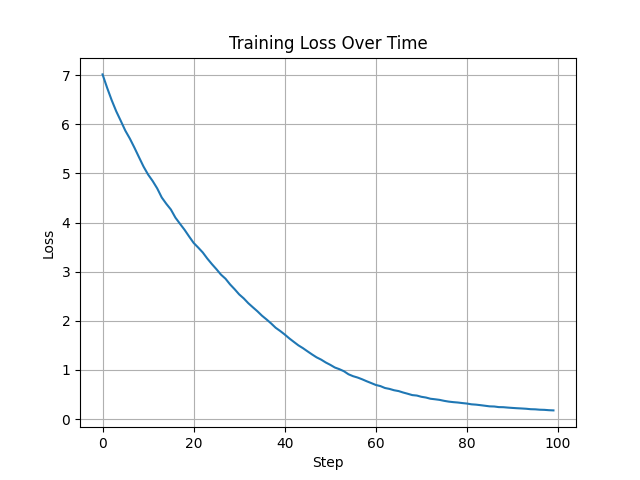
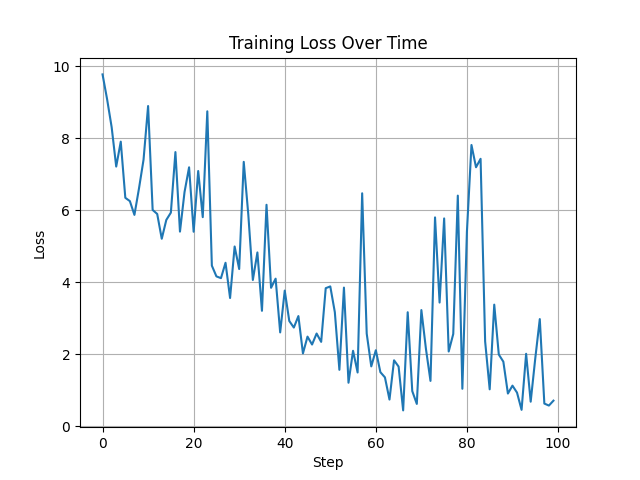
push

diff --git a/test_model.py b/test_model.py
@@ -225,72 +225,64 @@ if __name__ == "__main__":
 import torch
 import torch.optim as optim
 import matplotlib.pyplot as plt
-from datasets import load_dataset  # Import datasets library
-from transformers import T5Tokenizer  # Optional: use tokenizer if you prefer a pre-trained one
+from datasets import load_dataset
+from transformers import T5Tokenizer
 from model.transformer import GPT, GPTConfig
 
-
-# Step 1: Load the WMT 2014 dataset
-# Step 1: Load the WMT 2014 dataset
+# Step 1: Load the WMT 2014 dataset (DE-EN)
 dataset = load_dataset("wmt14", "de-en")
-    # Only process the first 10 examples for testing purposes
-for example in dataset['train'][:10]:  # Limit to first 10 examples
-    print(example)
-    input_text = example["translation"]["en"]
-    target_text = example["translation"]["de"]
-train_data = dataset["train"]
+
+# Limit to first 100 examples for quick testing
+train_data = dataset["train"].select(range(100))
 valid_data = dataset["validation"]
 test_data = dataset["test"]
 
-# Optional: Load a tokenizer (you can adjust this for your model's needs)
+# Load tokenizer
 tokenizer = T5Tokenizer.from_pretrained("t5-small")
+tokenizer.pad_token = tokenizer.eos_token  # Set padding token if missing
 
-# Tokenization function (you can adjust this based on your model's needs)
+# Tokenization function
 def tokenize(text):
     return tokenizer.encode(text, truncation=True, padding="max_length", max_length=128)
 
 # Model configuration
 config = GPTConfig(
-    vocab_size=1000,
+    vocab_size=tokenizer.vocab_size,
     n_embd=64,
     n_head=4,
     n_layer=4
 )
-
 model = GPT(config)
 device = torch.device("cuda" if torch.cuda.is_available() else "cpu")
 model.to(device)
 
 # Optimizer
 optimizer = optim.Adam(model.parameters(), lr=1e-3)
-
 losses = []
 
 # Training loop
-for step in range(700):
+for step, example in enumerate(train_data):
+    if step >= 700:
+        break
+
+    input_text = example["translation"]["en"]
+    target_text = example["translation"]["de"]
+
+    input_tensor = torch.tensor([tokenize(input_text)]).to(device)
+    target_tensor = torch.tensor([tokenize(target_text)]).to(device)
+
     model.train()
     optimizer.zero_grad()
 
+    logits, loss = model(input_tensor, target_tensor)
 
-    for example in train_data:
-        input_text = example["en"]  # English side
-        target_text = example["de"]  # German side
+    loss.backward()
+    optimizer.step()
 
-        # Tokenize the sentences
-        input_tensor = torch.tensor([tokenize(input_text)]).to(device)
-        target_tensor = torch.tensor([tokenize(target_text)]).to(device)
+    losses.append(loss.item())
 
-        # Forward pass
-        logits, loss = model(input_tensor, target_tensor)
-        
-        # Backward pass and optimization
-        loss.backward()
-        optimizer.step()
-
-        losses.append(loss.item())
-
-        if step % 10 == 0:
-            print(f"Step {step}, Loss: {loss.item():.4f}")
+    if step % 10 == 0:
+        print(f"Step {step}, Loss: {loss.item():.4f}")
 
 # Plot the loss curve
 plt.plot(losses)
@@ -300,14 +292,40 @@ plt.title("Training Loss Over Time")
 plt.grid(True)
 plt.savefig("loss_curve.png")
 
-# Evaluation
+# Evaluation with a sample from validation set
 model.eval()
 with torch.no_grad():
-    # Step 3: Sample prediction from the model
-    test_input = input_tensor[0].unsqueeze(0)  # Using the last processed input tensor for testing
-    logits, _ = model(test_input)
+    example = valid_data[0]
+    input_text = example["translation"]["en"]
+
+    input_tensor = torch.tensor([tokenize(input_text)]).to(device)
+    logits, _ = model(input_tensor)
     prediction = torch.argmax(logits, dim=-1)
 
     print("\nSample Prediction:")
-    print("Input:     ", test_input[0].tolist())
-    print("Predicted: ", prediction[0].tolist())
+    print("Input:     ", tokenizer.decode(input_tensor[0], skip_special_tokens=True))
+    print("Predicted: ", tokenizer.decode(prediction[0], skip_special_tokens=True))
+# Evaluation with autoregressive decoding
+model.eval()
+with torch.no_grad():
+    example = valid_data[0]
+    input_text = example["translation"]["en"]
+    input_ids = torch.tensor([tokenize(input_text)]).to(device)
+
+    max_new_tokens = 50
+    generated = input_ids.clone()
+
+    for _ in range(max_new_tokens):
+        logits, _ = model(generated)
+        next_token_logits = logits[:, -1, :]  # Get logits for last generated token
+        next_token = torch.argmax(next_token_logits, dim=-1).unsqueeze(0)  # Greedy decoding
+
+        generated = torch.cat((generated, next_token), dim=1)
+
+        # Stop if model generates a pad or end token
+        if next_token.item() in [tokenizer.pad_token_id, tokenizer.eos_token_id]:
+            break
+
+    print("\nSample Prediction (Greedy):")
+    print("Input:     ", input_text)
+    print("Predicted: ", tokenizer.decode(generated[0], skip_special_tokens=True))
